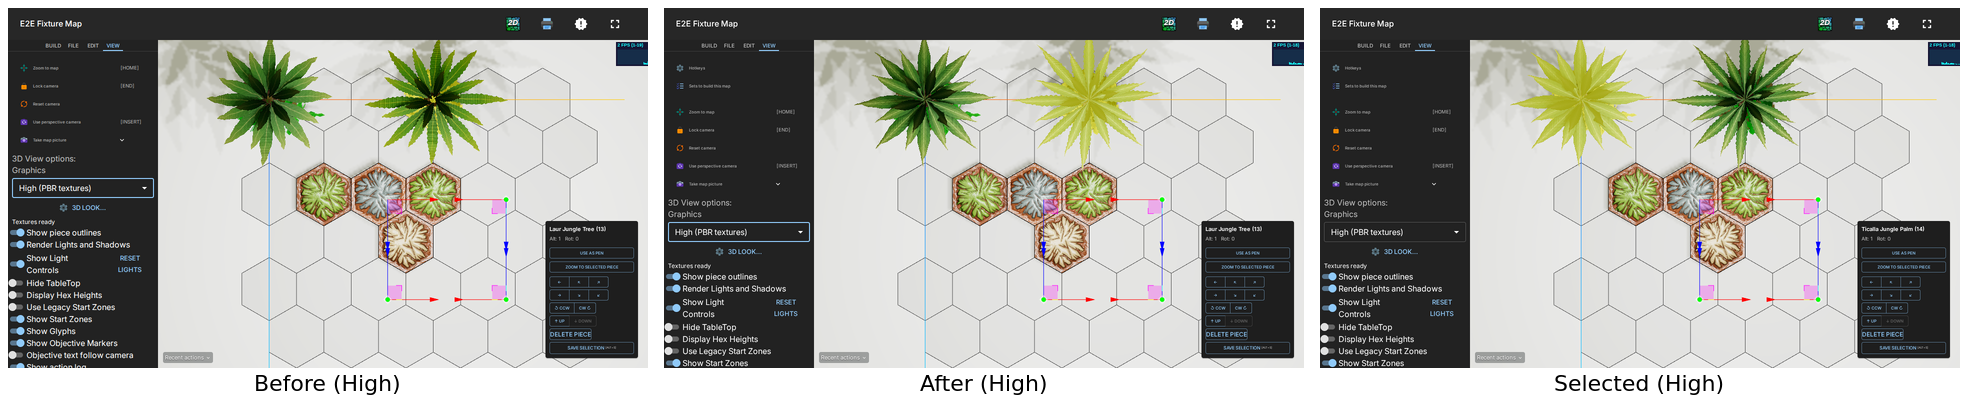
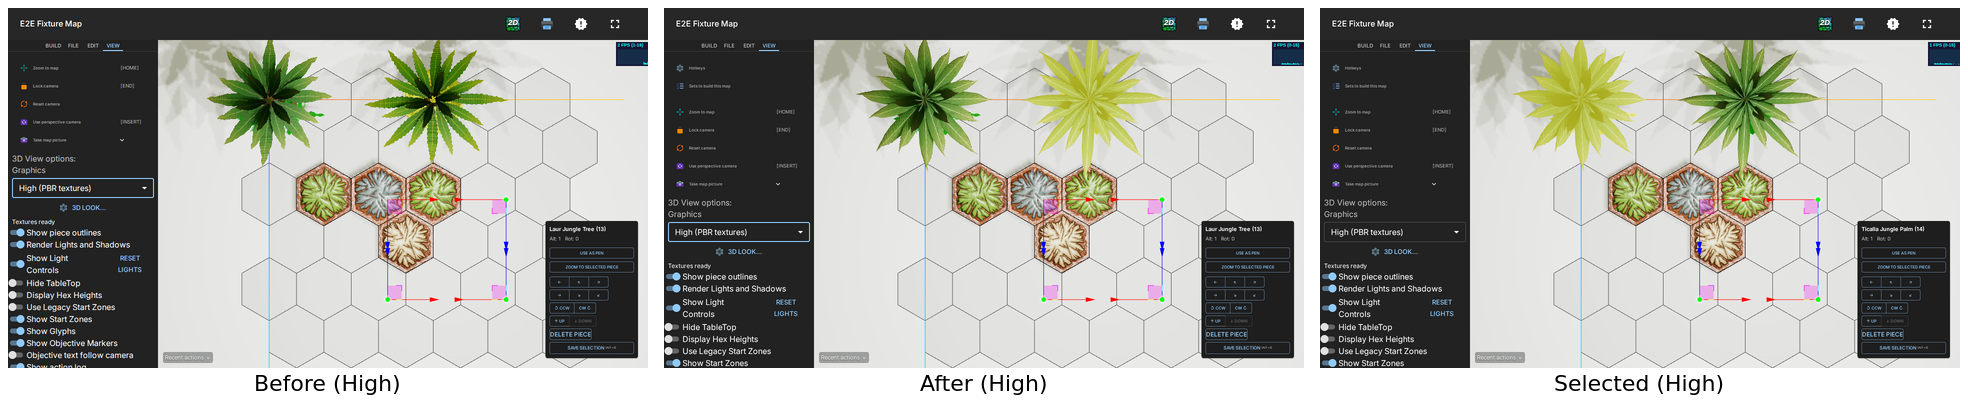
Tune palm blade width and fold

Changed region(s): [[0.7439, 0.0885, 0.9299, 0.4128], [0.4029, 0.0885, 0.5889, 0.4128]]

diff --git a/src/world/models/palmFronds.ts b/src/world/models/palmFronds.ts
@@ -23,10 +23,10 @@ export type PalmFrondTransform = {
 }
 
 export const PALM_FROND_BLADE_WIDTH: Record<PalmStyle, number> = {
-  laur: 0.45,
-  ticalla: 0.45,
+  laur: 1.45,
+  ticalla: 1.45,
 }
-export const PALM_FROND_FOLD = 0.08
+export const PALM_FROND_FOLD = 0.16
 
 export function applyPalmFrondInstances(
   mesh: InstancedMesh,
